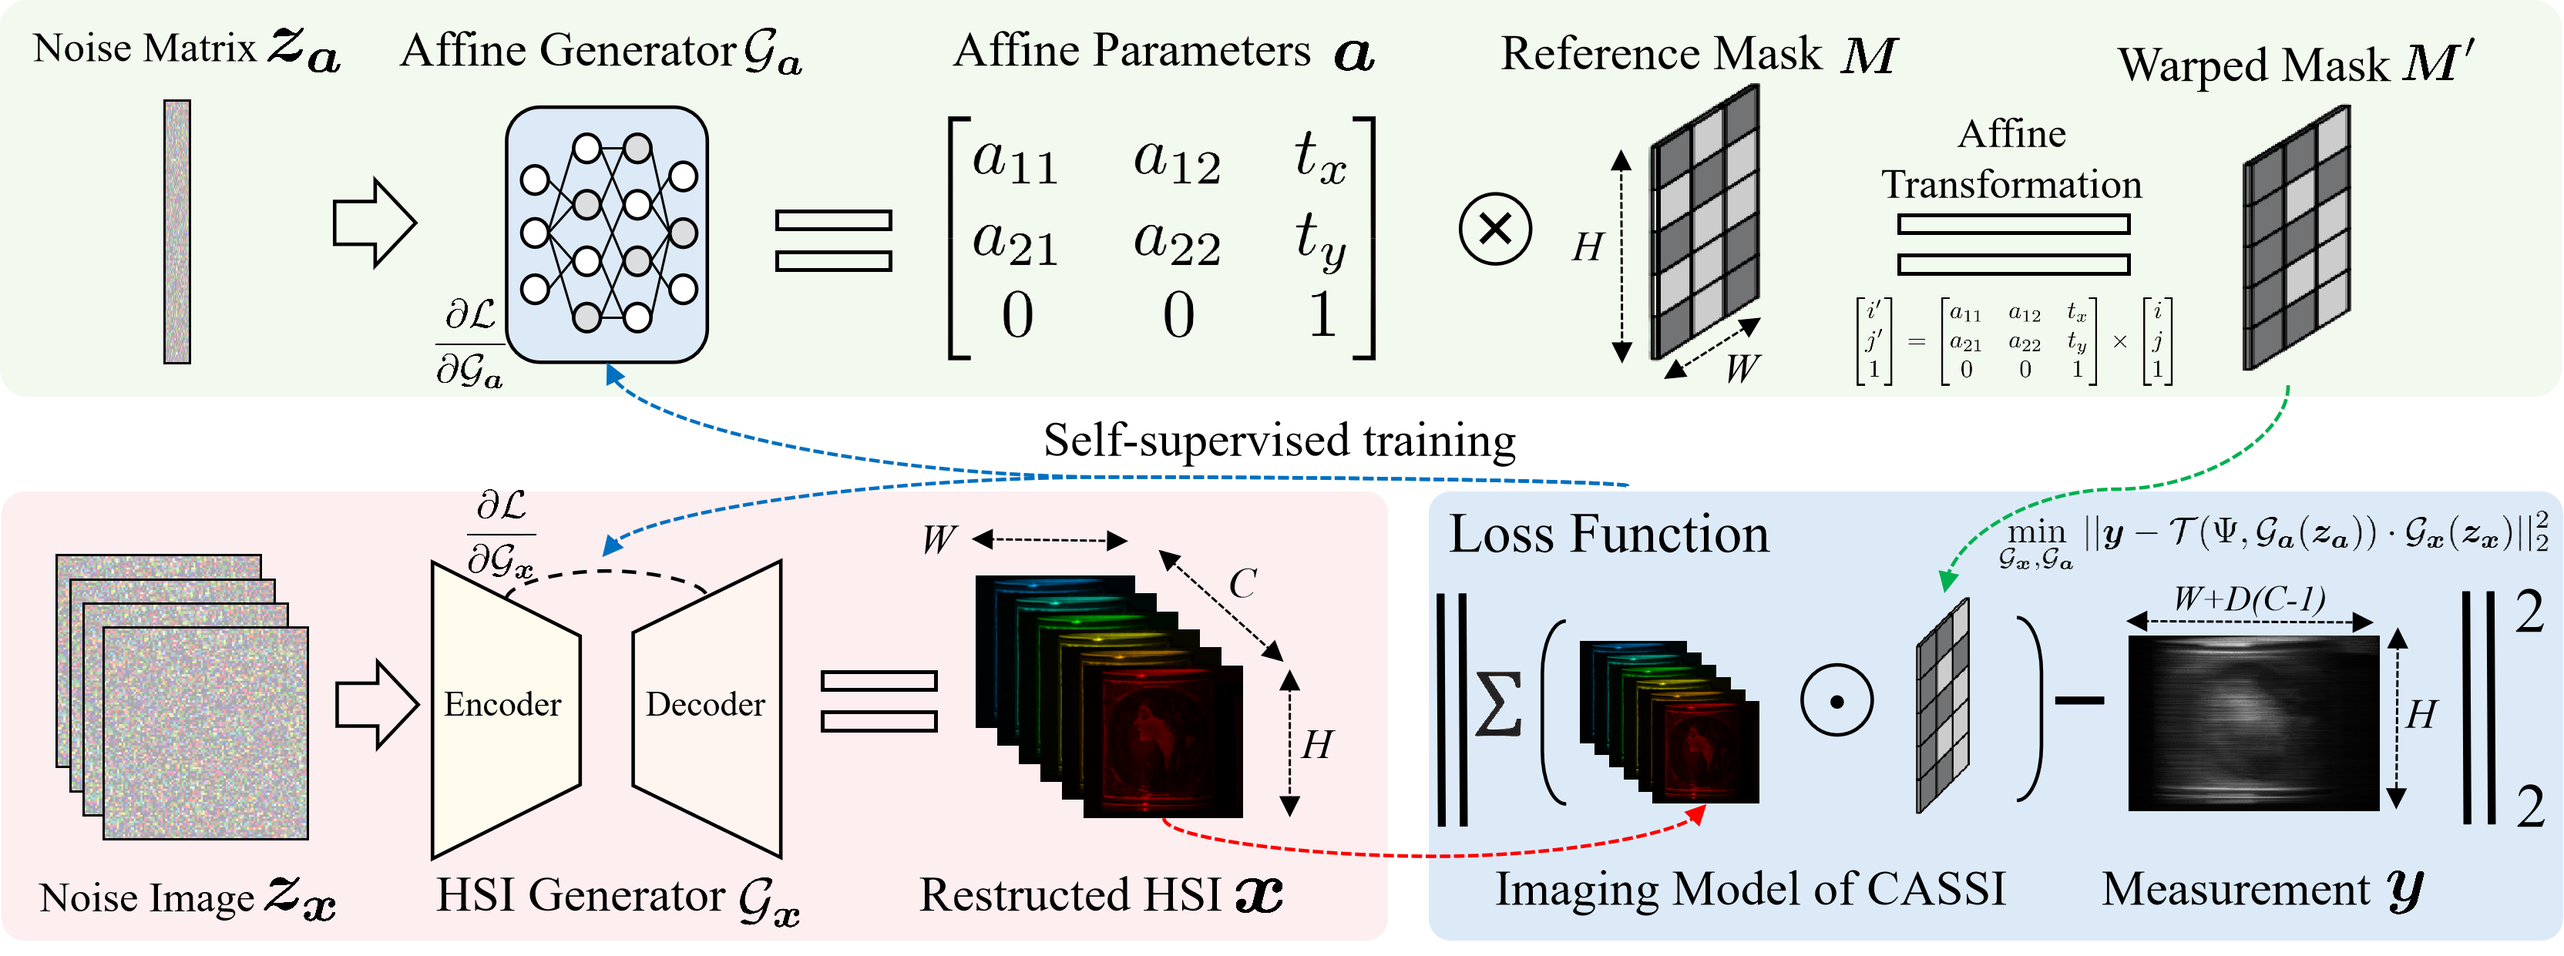
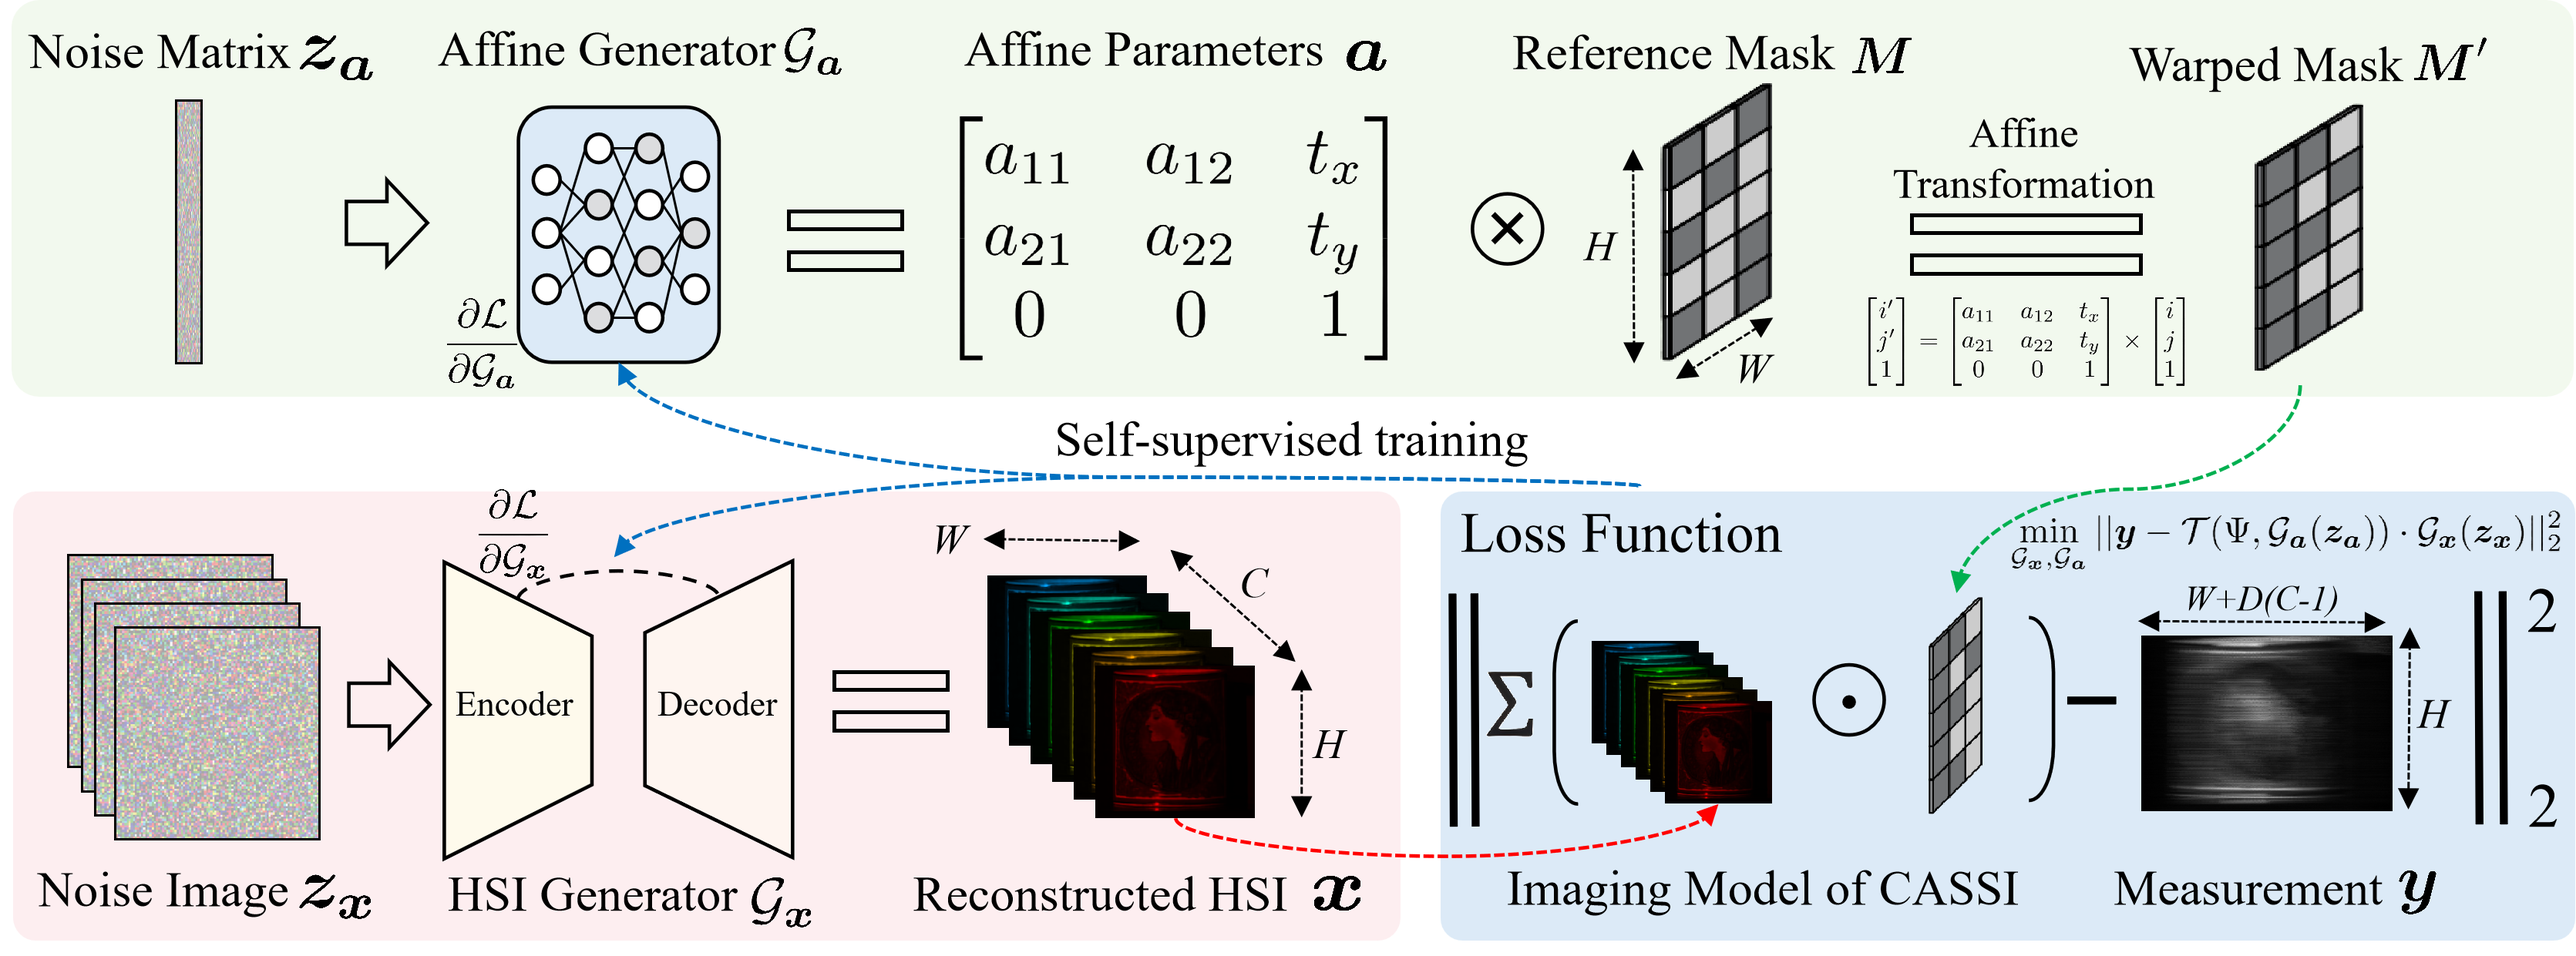
V1.0

diff --git a/main_KAIST.py b/main_KAIST.py
@@ -7,6 +7,8 @@ import scipy.io as sio
 from optimization import ADMM_Iter
 device = torch.device('cuda:0' if torch.cuda.is_available() else 'cpu')
 random.seed(5)
+import time
+
 # -----------------------Opti. Configuration -----------------------#
 parser = argparse.ArgumentParser()
 parser.add_argument('--scene', default='scene01', help="scene01-10")
@@ -14,7 +16,7 @@ parser.add_argument('--method', default='SK-LCTC', help="LCTC, SK-LCTC or MK-LCT
 parser.add_argument('--unit_size', default=1, help="encoding unit size of mask")
 
 # The following are the parameters of Our SGDE
-parser.add_argument('--max_translation', default=1.0, help="Range of single core calibration")
+parser.add_argument('--max_translation', default=2.0, help="Range of single core calibration")
 parser.add_argument('--max_angle', default=0.4, help="Range of single core calibration")
 parser.add_argument('--max_scale', default=0.004, help="Range of single core calibration")
 parser.add_argument('--kernel_num', default=8, help='It is for MK-LCTC')
@@ -23,7 +25,7 @@ parser.add_argument('--switch_iters', default=1000, help="Switching from SK to M
 
 # The following are the affine transformation parameters for Mask,
 # with the aim of introducing controllable perturbations
-parser.add_argument('--translate_x', default=0.5, help="Affine params")
+parser.add_argument('--translate_x', default=0.0, help="Affine params")
 parser.add_argument('--translate_y', default=0, help="Affine params")
 parser.add_argument('--angle', default=0, help="Affine params")
 parser.add_argument('--scale_x', default=1.000, help="Affine params")
@@ -77,7 +79,10 @@ Phi_new = mask_3d_new.to(device)
 meas = torch.sum(Phi_new * data_truth_shift, 2)
 
 # -------------------------- Optimization --------------------------#
+start_time = time.time()
 x_rec = ADMM_Iter(meas.to(device), Phi.to(device), truth_tensor, args)
+end_time = time.time()
+print(f"runtime: {end_time - start_time:.2f} s")
 sio.savemat(results_dir + '/{}.mat'.format(data_name), {'img': x_rec.cpu().numpy()})
 if os.path.exists('./Results/model_weights.pth'):
     os.remove('./Results/model_weights.pth')

diff --git a/main_TSA.py b/main_TSA.py
@@ -13,21 +13,21 @@ parser = argparse.ArgumentParser()
 parser.add_argument('--meas_path', default='./Data/TSA/meas/scene01.mat')
 parser.add_argument('--mask_path', default='./Data/TSA/mask/mask.mat')
 parser.add_argument('--results_dir', default='./Results/')
-parser.add_argument('--method', default='LCTC', help="LCTC, SK-LCTC or MK-LCTC")
+parser.add_argument('--method', default='SK-TC', help="LCTC, SK-LCTC or MK-LCTC")
 parser.add_argument('--unit_size', default=1, help="encoding unit size of mask")
 
 # The following are the parameters of Our SGDE
 parser.add_argument('--max_translation', default=3.0, help="Range of single core calibration")
-parser.add_argument('--max_angle', default=0.4, help="Range of single core calibration")
-parser.add_argument('--max_scale', default=0.004, help="Range of single core calibration")
+parser.add_argument('--max_angle', default=0.8, help="Range of single core calibration")
+parser.add_argument('--max_scale', default=0.008, help="Range of single core calibration")
 parser.add_argument('--kernel_num', default=8, help='It is for MK-LCTC')
 parser.add_argument('--add_order', default='forward', help="forward or reverse, it is for MK-LCTC")
-parser.add_argument('--switch_iters', default=1000, help="Switching from SK to MK, it is for MK-LCTC")
+parser.add_argument('--switch_iters', default=1500, help="Switching from SK to MK, it is for MK-LCTC")
 
 # The following are the original parameters of LCTC
 parser.add_argument('--iter_num', default=1, help="Maximum number of iterations")
 parser.add_argument('--lambda_', default=1, help="Facotr of the LCTC regularization")
-parser.add_argument('--LR_iter', default=2000, help="Training epochs of CTC networks")
+parser.add_argument('--LR_iter', default=4000, help="Training epochs of CTC networks")
 parser.add_argument('--R_iter', default=1000, help="Reduced Training epochs of CTC networks")
 parser.add_argument('--lambda_R', default=0.07, help="Factor of TV/SSTV regularization in CTC")
 parser.add_argument('--ip_BI', default=4, help="The number of channel of input")

diff --git a/main_Our.py b/main_Our.py
@@ -20,13 +20,13 @@ parser.add_argument('--max_angle', default=0.8, help="Range of single core calib
 parser.add_argument('--max_scale', default=0.008, help="Range of single core calibration")
 parser.add_argument('--kernel_num', default=8, help='It is for MK-LCTC')
 parser.add_argument('--add_order', default='forward', help="forward or reverse, it is for MK-LCTC")
-parser.add_argument('--switch_iters', default=1000, help="Switching from SK to MK, it is for MK-LCTC")
+parser.add_argument('--switch_iters', default=1500, help="Switching from SK to MK, it is for MK-LCTC")
 
 # The following are the original parameters of LCTC
 parser.add_argument('--unit_size', default=1, help="encoding unit size of mask")
 parser.add_argument('--iter_num', default=1, help="Maximum number of iterations")
 parser.add_argument('--lambda_', default=1, help="Facotr of the LCTC regularization")
-parser.add_argument('--LR_iter', default=3000, help="Training epochs of LCTC networks")
+parser.add_argument('--LR_iter', default=4000, help="Training epochs of LCTC networks")
 parser.add_argument('--R_iter', default=1000, help="Reduced Training epochs of CTC networks")
 parser.add_argument('--lambda_R', default=0.07, help="Factor of TV/SSTV regularization in CTC")
 parser.add_argument('--ip_BI', default=4, help="The number of channel of input")

diff --git a/func.py b/func.py
@@ -301,6 +301,28 @@ def shift(inputs, step):
     del inputs
     return output
 
+# def shift(inputs, step):
+#     """
+#     inputs: [H, W, C]
+#     return: [H, W + (C-1)*step, C]
+#     """
+#     H, W, C = inputs.shape
+#     out_W = W + (C - 1) * step
+#     # [H, C, W]
+#     x = inputs.permute(0, 2, 1).contiguous()
+#     # 输出: [H, C, out_W]
+#     output = inputs.new_zeros((H, C, out_W))
+#     # 每个通道对应的写入位置
+#     # idx shape: [1, C, W]
+#     idx = torch.arange(W, device=inputs.device).view(1, 1, W) + \
+#           torch.arange(C, device=inputs.device).view(1, C, 1) * step
+#     # 扩展到 batch 维度 H
+#     idx = idx.expand(H, C, W)
+#     # 一次性并行写入
+#     output.scatter_(dim=2, index=idx, src=x)
+#     # 变回 [H, out_W, C]
+#     return output.permute(0, 2, 1).contiguous()
+
 
 def shift_back(inputs, step):
     [h, w, nC] = inputs.shape

diff --git a/optimization.py b/optimization.py
@@ -194,7 +194,7 @@ def SK_LCTC(meas, Phi, z, truth_tensor, im_input, net_input_kernel, args):
             best_loss = loss.item()
             best_hs_recon = model_out.detach()
 
-        if (idx + 1) % 10 == 0:
+        if (idx + 1) % 100 == 0:
             video_gen(model_out.squeeze(0).permute(1, 2, 0).detach().cpu().numpy())
             PSNR = calculate_psnr_tensor(truth_tensor, model_out.squeeze(0))
             print('Iter {}, x_loss:{:.3f}, s_loss:{:.3f}, PSNR:{:.2f}'.format(

diff --git a/Demo/DERNN-LNLT/csi/data/data.py b/Demo/DERNN-LNLT/csi/data/data.py
@@ -317,7 +317,7 @@ def gen_meas_torch_batch(inputs, Phi, step, wave_len, mask_type="mask_3d_shift",
         data['Y'] = input
         data['H'] = H
     else:
-        meas = y / nC * 2 
+        meas = y / nC * 2
         H = shift_back_batch(meas, step=step)
         data['Y'] = y
         data['H'] = H

diff --git a/README.md b/README.md
@@ -2,7 +2,7 @@
 
 # SGDE: Self-supervised Geometry Degradation Estimation Framework for Coded Aperture Compressive Spectral Imaging
 
-Yuqiao He, Xiaoyan Liu, Jianxu Mao, Yaonan Wang, Hui Zhang, Lizhu Li, Yurong Chen, Wenbin He
+Yuqiao He, Xiaoyan Liu, Jianxu Mao, Yaonan Wang, Hui Zhang, Lizhu Liu, [Yurong Chen](https://github.com/YurongChen1998), Wenbin He
 
 </div>
 
